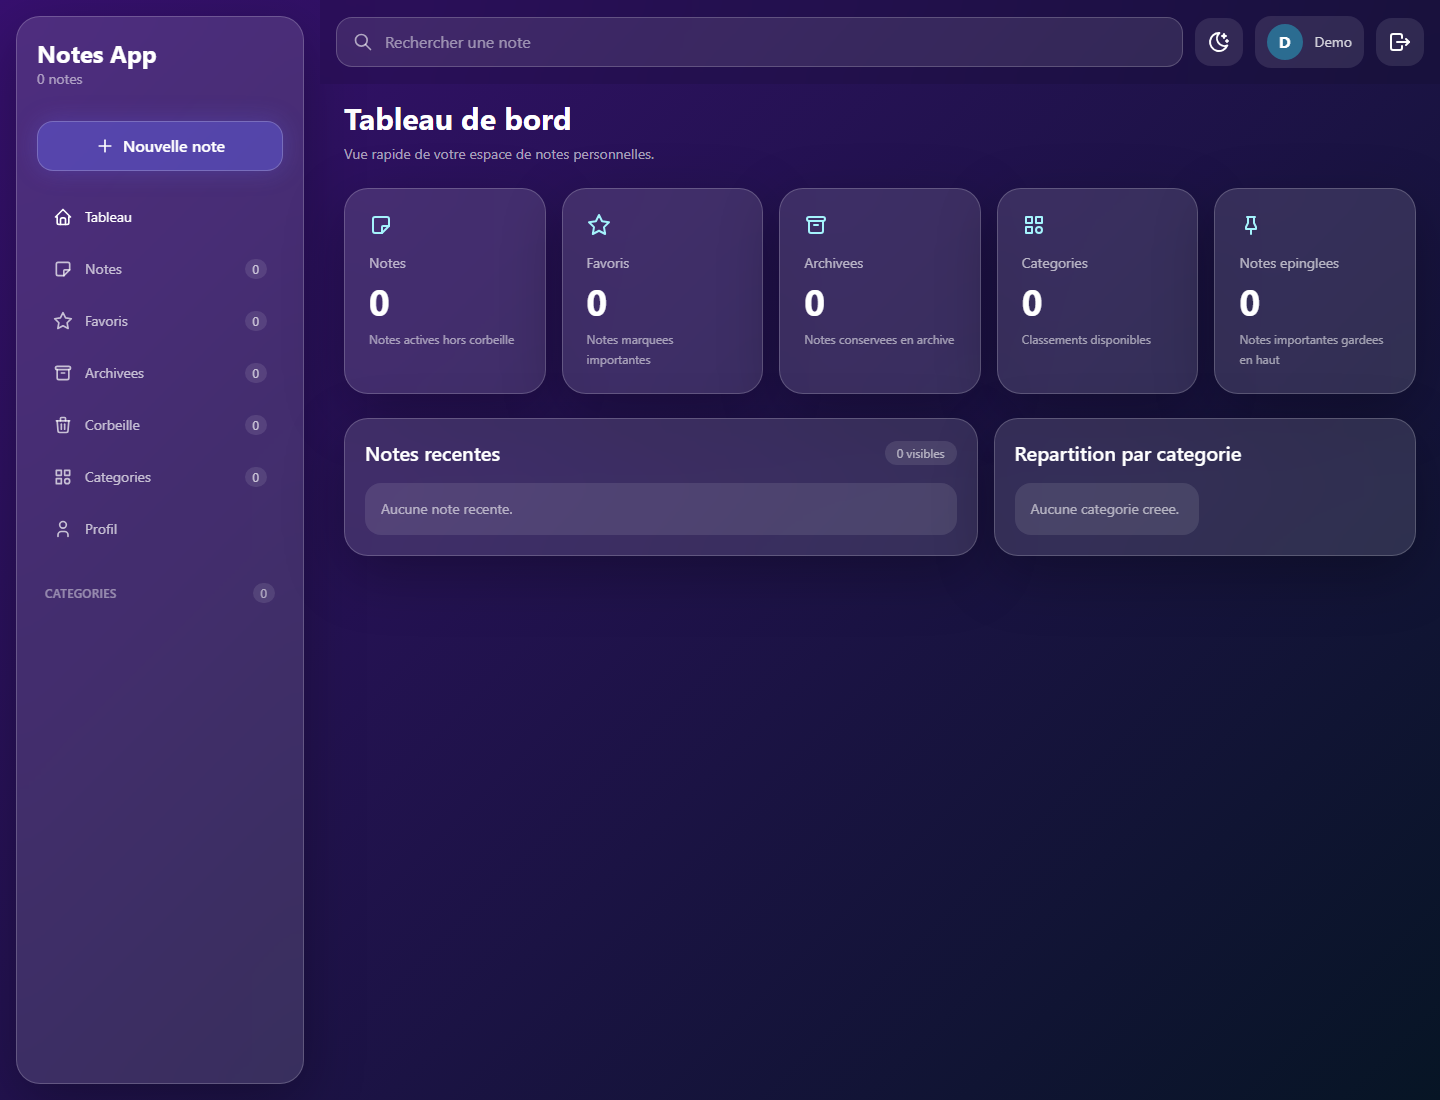
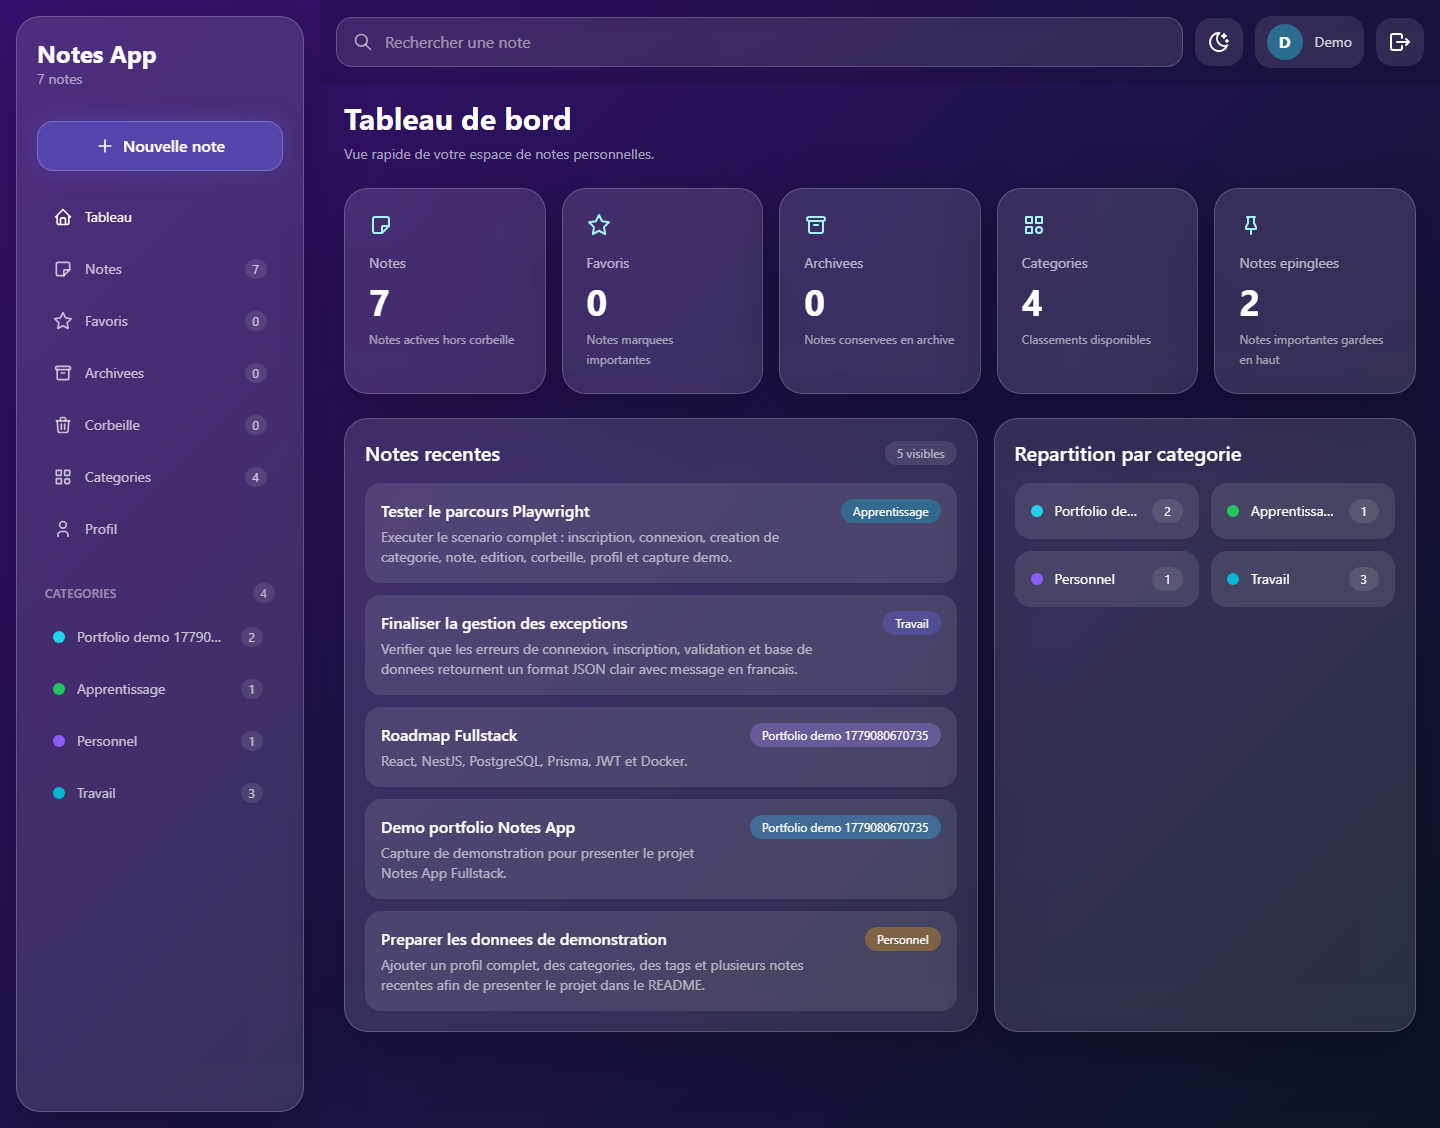
Refresh notes app project demo

diff --git a/src/pages/Projects/Projects.jsx b/src/pages/Projects/Projects.jsx
@@ -7,7 +7,7 @@ const projects = [
     title: "Notes App Fullstack",
     description:
       "Application de gestion de notes personnelles en monorepo avec API REST NestJS, PostgreSQL, Prisma, JWT, Swagger, React 18, Vite, TypeScript, Tailwind CSS et Zustand.",
-    image: "/project-demos/notes-app-fullstack.png",
+    image: "/project-demos/notes-app-fullstack.png?v=2",
     color: "#5196fd",
     stack: ["NestJS", "React", "PostgreSQL", "Prisma", "Docker"],
     githubLink: "https://github.com/KennyU13/notes-app-fullstack",
